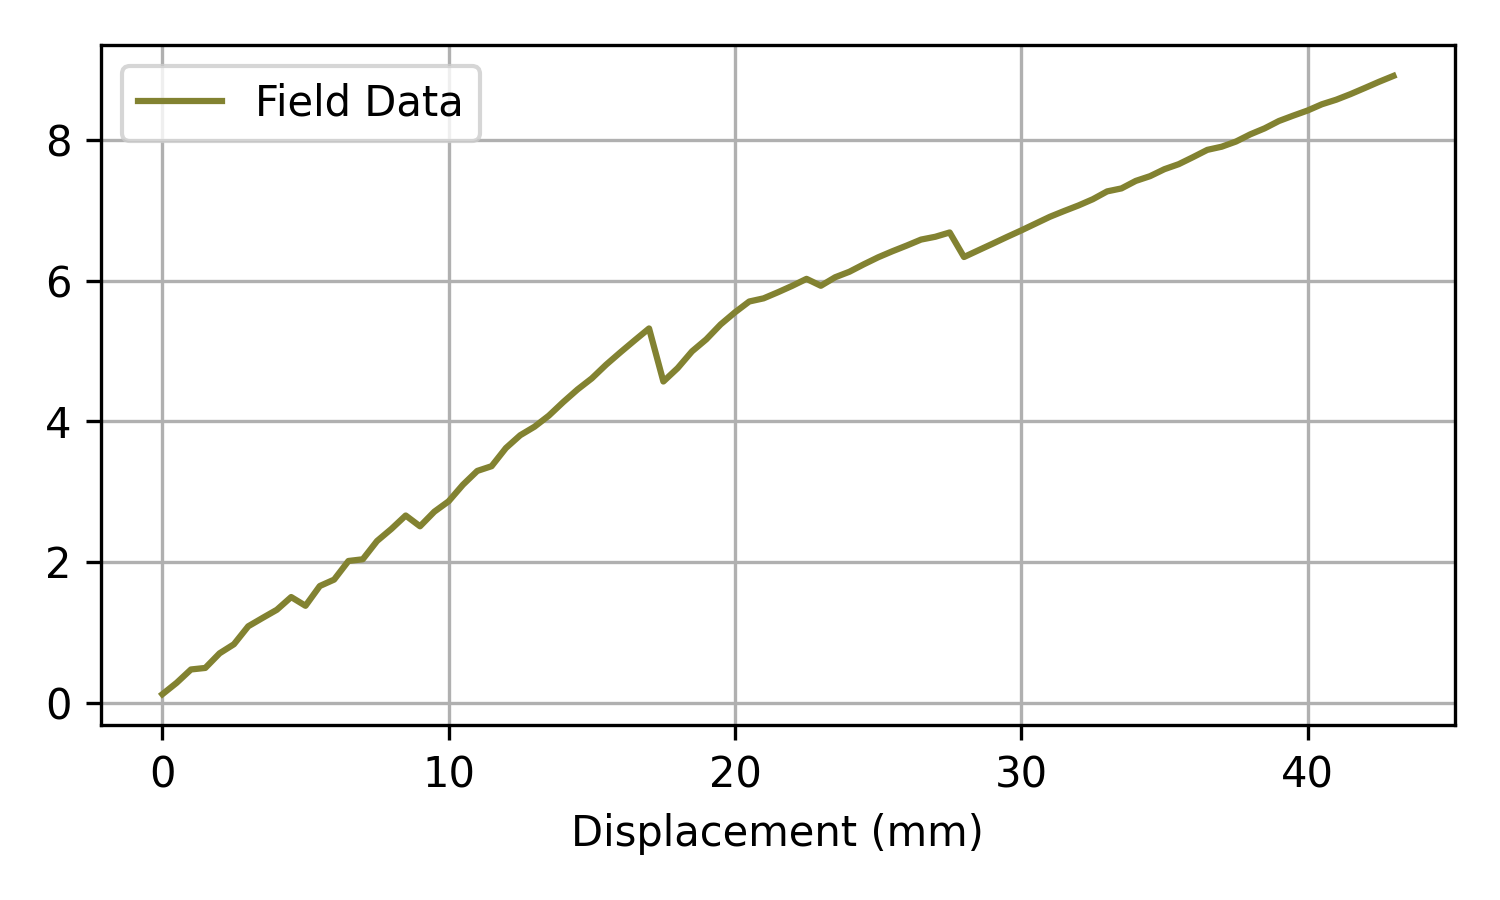
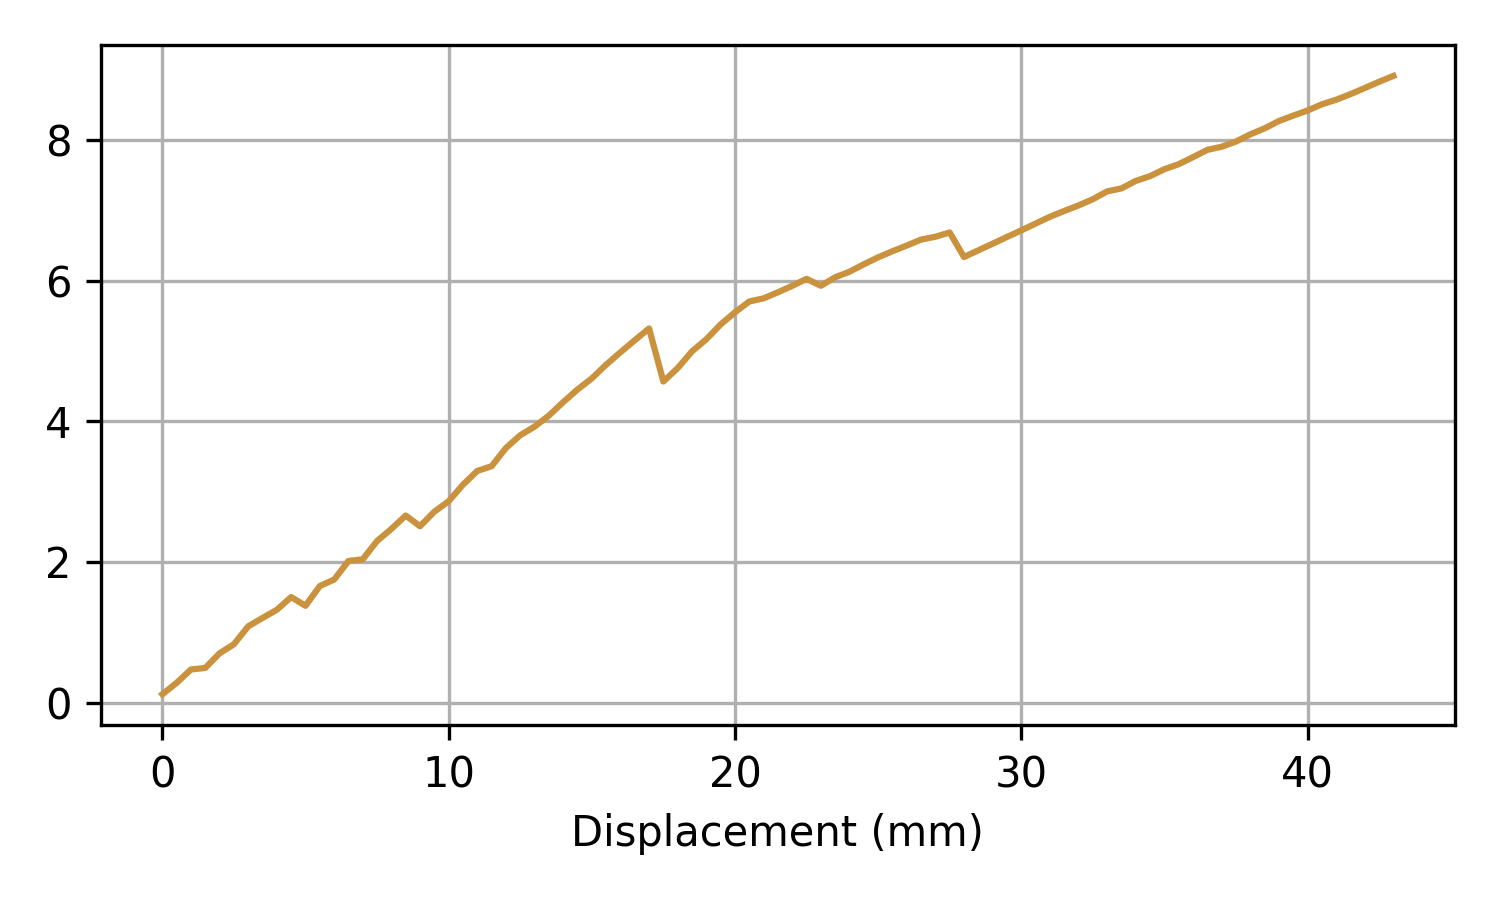
better visible force-displacement colors for field push data

diff --git a/src/datavisualizer.py b/src/datavisualizer.py
@@ -110,17 +110,17 @@ def plot_push_data(bush_num, branch_num, trial_num):
     # colors
     # 0.0 for far left column
     # 0.5 for middle left column
-    plt.plot(push_data_df['Displacement (mm)'], push_data_df['Load (N)'], color=cm.batlow(0.0), label='Field Data')
+    plt.plot(push_data_df['Displacement (mm)'], push_data_df['Load (N)'], color=cm.batlow(0.65), label='Field Data')
     plt.xlabel('Displacement (mm)')
-    plt.ylabel('Force (N)')
+    # plt.ylabel('Force (N)')
     # plt.title(f'Push Data for Bush {bush_num}, Branch {branch_num}, Trial {trial_num}')
-    plt.legend()
+    # plt.legend()
     plt.grid()
     plt.tight_layout()
-    plt.show()
+    # plt.show()
 
     # save png to images/forcedisplacementplots/pushdata_bush_{bush_num}_branch_{branch_num}_trial_{trial_num}.png
-    # plt.savefig(f"images/forcedisplacementplots/for_paper/pushdata_bush_{bush_num}_branch_{branch_num}_trial_{trial_num}.png", dpi=300)
+    plt.savefig(f"images/forcedisplacementplots/for_paper/pushdata_bush_{bush_num}_branch_{branch_num}_trial_{trial_num}.png", dpi=300)
 
 def plot_push_data_with_regression_line(bush_num, branch_num, trial_num):
     # Load the corresponding push data file based on the bush, branch, and trial numbers
@@ -135,18 +135,18 @@ def plot_push_data_with_regression_line(bush_num, branch_num, trial_num):
     
     # Plot the push data (e.g., force vs displacement)
     plt.figure(figsize=(5, 3))
-    plt.plot(push_data_df['Displacement (mm)'], push_data_df['Load (N)'], color=cm.batlow(0.65), label='Field Data')
-    plt.plot(push_data_df['Displacement (mm)'], get_force_at_disp(push_data_df['Displacement (mm)']), label='Field Data Linear Fit', linestyle='--', color=cm.batlow(.99))
+    plt.plot(push_data_df['Displacement (mm)'], push_data_df['Load (N)'], color=cm.batlow(0.9), label='Field Data')
+    plt.plot(push_data_df['Displacement (mm)'], get_force_at_disp(push_data_df['Displacement (mm)']), label='Field Data Linear Fit', linestyle='--', color=cm.batlow(.4))
     plt.xlabel('Displacement (mm)')
     # plt.ylabel('Force (N)')
     # plt.title(f'Push Data for Bush {bush_num}, Branch {branch_num}, Trial {trial_num}')
-    plt.legend()
+    # plt.legend()
     plt.grid()
     plt.tight_layout()
     # plt.show()
 
     # save png to images/forcedisplacementplots/pushdata_bush_{bush_num}_branch_{branch_num}_trial_{trial_num}.png
-    plt.savefig(f"images/forcedisplacementplots/for_paper/pushdataWregression_bush_{bush_num}_branch_{branch_num}_trial_{trial_num}.png", dpi=300)
+    plt.savefig(f"images/forcedisplacementplots/for_paper/pushdataWregression_bush_{bush_num}_branch_{branch_num}_trial_{trial_num}_nolegend.png", dpi=300)
 
 if __name__ == '__main__':
     metadata_df = load_metadata('data/results/metadata_2026-02-23_23-10.csv')
@@ -164,6 +164,6 @@ if __name__ == '__main__':
     # plot_push_data(5, 2, 2)
     # plot_push_data_with_regression_line(23, 1, 1)
     # plot_push_data_with_regression_line(3, 2, 1)
-    plot_push_data_with_regression_line(14, 2, 1)
+    # plot_push_data_with_regression_line(14, 2, 1)
     plot_push_data_with_regression_line(1, 1, 1)
     
